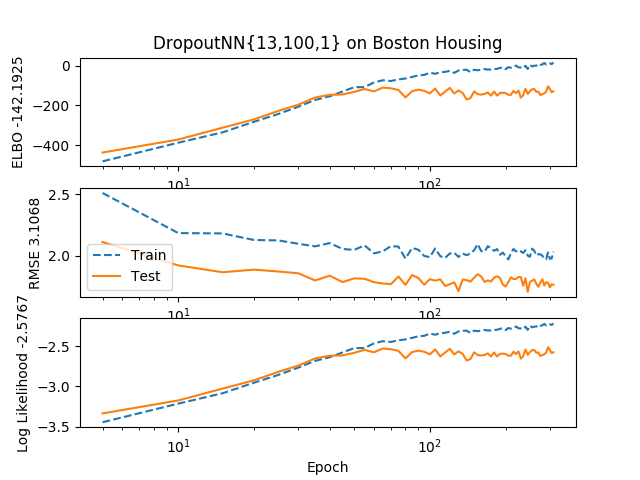
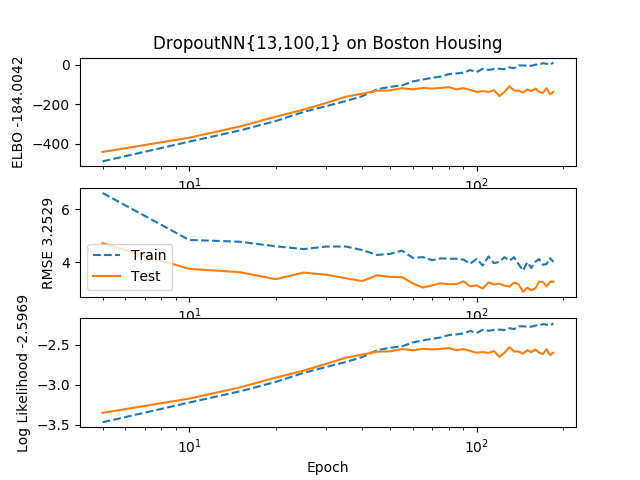
update VAF

diff --git a/mnist/training.py b/mnist/training.py
@@ -75,8 +75,8 @@ if __name__ == '__main__':
         'lb_samples': 20,
         'll_samples': 100,
         'n_basis': 50,
-        'n_hiddens': [100],
-        'batch_size': 10,
+        'n_hiddens': [125, 75, 25],
+        'batch_size': 100,
         'learn_rate': 1e-2,
         'max_epochs': 10000,
         'early_stop': 5,

diff --git a/KEGG/training.py b/KEGG/training.py
@@ -73,8 +73,8 @@ if __name__ == '__main__':
         'lb_samples': 20,
         'll_samples': 100,
         'n_basis': 50,
-        'n_hiddens': [100],
-        'batch_size': 10,
+        'n_hiddens': [125, 75, 25],
+        'batch_size': 50,
         'learn_rate': 1e-2,
         'max_epochs': 10000,
         'early_stop': 5,

diff --git a/KEGGU/training.py b/KEGGU/training.py
@@ -73,8 +73,8 @@ if __name__ == '__main__':
         'lb_samples': 20,
         'll_samples': 100,
         'n_basis': 50,
-        'n_hiddens': [100],
-        'batch_size': 10,
+        'n_hiddens': [125, 75, 25],
+        'batch_size': 50,
         'learn_rate': 1e-2,
         'max_epochs': 10000,
         'early_stop': 5,

diff --git a/protein/training.py b/protein/training.py
@@ -73,8 +73,8 @@ if __name__ == '__main__':
         'lb_samples': 20,
         'll_samples': 100,
         'n_basis': 50,
-        'n_hiddens': [100],
-        'batch_size': 10,
+        'n_hiddens': [125, 75, 25],
+        'batch_size': 50,
         'learn_rate': 1e-2,
         'max_epochs': 10000,
         'early_stop': 5,

diff --git a/parkinsons/training.py b/parkinsons/training.py
@@ -73,7 +73,7 @@ if __name__ == '__main__':
         'lb_samples': 20,
         'll_samples': 100,
         'n_basis': 50,
-        'n_hiddens': [100],
+        'n_hiddens': [75, 25],
         'batch_size': 10,
         'learn_rate': 1e-2,
         'max_epochs': 10000,

diff --git a/skill_craft/training.py b/skill_craft/training.py
@@ -73,7 +73,7 @@ if __name__ == '__main__':
         'lb_samples': 20,
         'll_samples': 100,
         'n_basis': 50,
-        'n_hiddens': [100],
+        'n_hiddens': [75, 25],
         'batch_size': 10,
         'learn_rate': 1e-2,
         'max_epochs': 10000,

diff --git a/boston_housing/training.py b/boston_housing/training.py
@@ -75,7 +75,7 @@ if __name__ == '__main__':
         'lb_samples': 20,
         'll_samples': 100,
         'n_basis': 50,
-        'n_hiddens': [100],
+        'n_hiddens': [50],
         'batch_size': 10,
         'learn_rate': 1e-2,
         'max_epochs': 10000,
